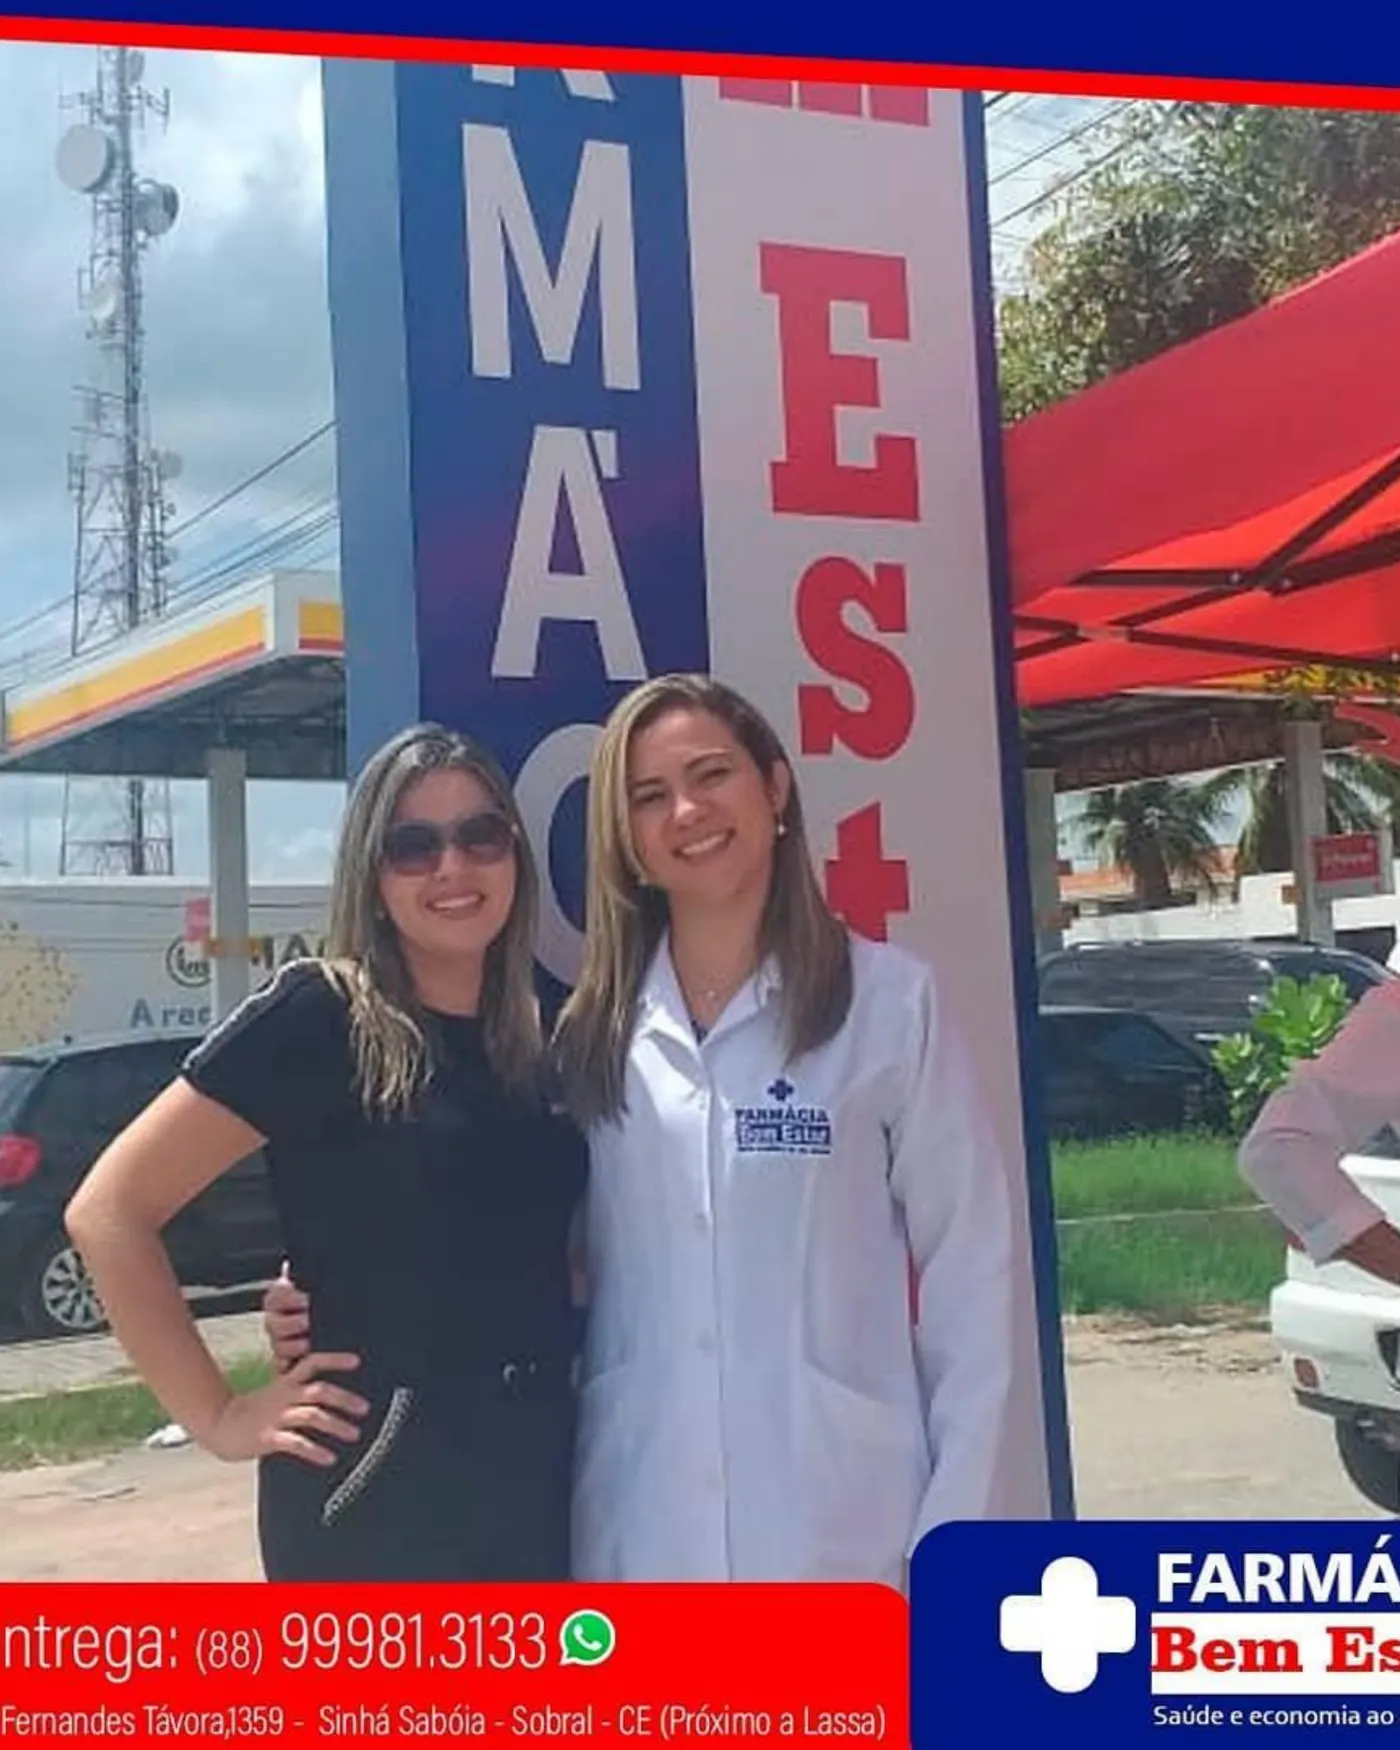
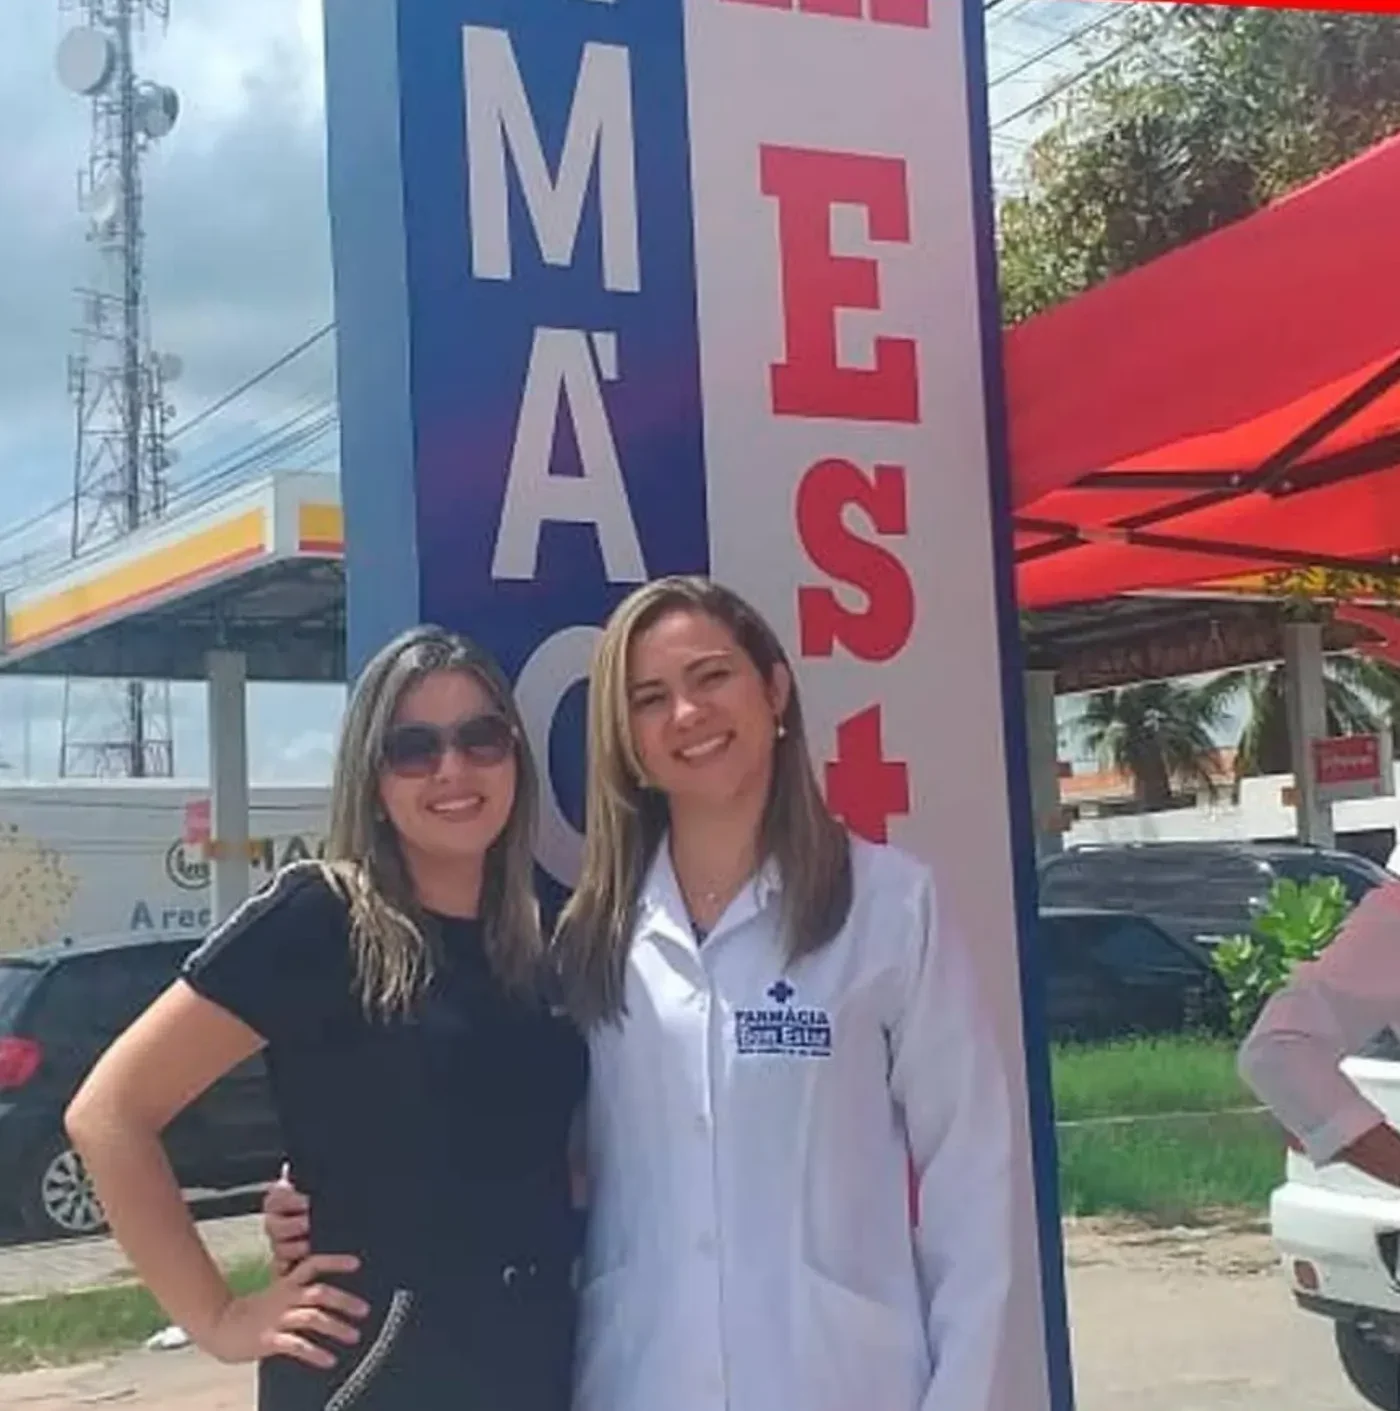
Destacar no topo do site a fachada da loja e a farmaceutica responsavel
- Adiciona as duas fotos novas enviadas pelo cliente: fachada-frente.webp
  (fachada completa, sem o banner com o telefone antigo) e
  kamila-proprietaria.webp (recortada para tirar o botao de play do video).
- Substitui heroImagem (uma foto) por heroImagens (lista), e o topo passa a
  mostrar a fachada como imagem principal com um cartao sobreposto da
  farmaceutica responsavel e proprietaria.
- Remove fachada-hero.webp, o recorte antigo que o cliente pediu para tirar.
- Recorta a faixa de rodape de fachada-farmaceutica.webp na galeria: ela
  exibia o telefone antigo (banido no WhatsApp) com o icone do WhatsApp.

Claude-Session: https://claude.ai/code/session_01RfrC8SveZFc3APvWVisAbM

diff --git a/components/hero/Hero.tsx b/components/hero/Hero.tsx
@@ -1,16 +1,28 @@
 import { Clock, MapPin, MessageCircle } from "lucide-react";
 import { empresa } from "@/content/empresa";
-import { heroImagem } from "@/content/institucional";
+import { heroImagens } from "@/content/institucional";
+
+const [imagemPrincipal, imagemSecundaria] = heroImagens;
 
 export function Hero() {
   return (
     <section id="inicio" className="relative overflow-hidden border-b border-border">
-      <div className="container-page grid gap-10 py-16 md:py-24 lg:grid-cols-2 lg:items-center">
+      {/* Fundo suave para dar profundidade ao topo sem concorrer com as fotos. */}
+      <div
+        aria-hidden="true"
+        className="pointer-events-none absolute -right-24 -top-24 h-72 w-72 rounded-full bg-secondary/5 blur-3xl"
+      />
+      <div
+        aria-hidden="true"
+        className="pointer-events-none absolute -bottom-32 -left-24 h-72 w-72 rounded-full bg-primary/5 blur-3xl"
+      />
+
+      <div className="container-page relative grid gap-12 py-16 md:py-24 lg:grid-cols-2 lg:items-center lg:gap-16">
         <div>
           <p className="mb-4 inline-flex items-center rounded-full bg-secondary/10 px-4 py-1.5 text-sm font-semibold text-secondary">
             Farmácia em Sobral - CE
           </p>
-          <h1 className="text-4xl font-bold leading-tight text-foreground sm:text-5xl">
+          <h1 className="font-heading text-4xl font-bold leading-tight text-foreground sm:text-5xl">
             Saúde e bem-estar com quem cuida de você de perto
           </h1>
           <p className="mt-5 max-w-xl text-lg text-foreground/70">
@@ -36,13 +48,41 @@ export function Hero() {
           </div>
         </div>
 
-        {heroImagem ? (
-          /* eslint-disable-next-line @next/next/no-img-element */
-          <img
-            src={heroImagem.src}
-            alt={heroImagem.alt}
-            className="aspect-[4/3] w-full rounded-xl border border-border object-cover"
-          />
+        {imagemPrincipal ? (
+          /* Composição com as duas fotos reais da farmácia: a fachada como
+             imagem principal e a farmacêutica responsável em destaque
+             sobreposto, no formato de um cartão com legenda.
+             <img> em vez de next/image: o site é exportado como estático
+             (images.unoptimized). */
+          <div className="relative mx-auto w-full max-w-md lg:ml-auto lg:mr-0 lg:max-w-[520px]">
+            {/* eslint-disable-next-line @next/next/no-img-element */}
+            <img
+              src={imagemPrincipal.src}
+              alt={imagemPrincipal.alt}
+              className="aspect-[4/5] w-full rounded-2xl border border-border object-cover object-top shadow-xl"
+            />
+
+            {imagemSecundaria && (
+              <figure className="absolute bottom-5 left-0 w-32 overflow-hidden rounded-2xl bg-background shadow-2xl ring-1 ring-border sm:w-40 lg:-left-10 lg:w-44">
+                {/* eslint-disable-next-line @next/next/no-img-element */}
+                <img
+                  src={imagemSecundaria.src}
+                  alt={imagemSecundaria.alt}
+                  className="aspect-[3/4] w-full object-cover object-[50%_28%]"
+                />
+                {imagemSecundaria.legenda && (
+                  <figcaption className="px-3 py-2.5">
+                    <span className="block text-xs font-semibold text-foreground">
+                      {imagemSecundaria.legenda.titulo}
+                    </span>
+                    <span className="mt-0.5 block text-[11px] leading-snug text-foreground/60">
+                      {imagemSecundaria.legenda.papel}
+                    </span>
+                  </figcaption>
+                )}
+              </figure>
+            )}
+          </div>
         ) : (
           <div className="rounded-xl border border-border bg-card p-8">
             <h2 className="font-heading text-lg font-semibold text-foreground">

diff --git a/content/institucional.ts b/content/institucional.ts
@@ -91,11 +91,26 @@ export const galeria: Array<{ src: string; alt: string }> = [
 ];
 
 /**
- * Foto de destaque do topo da página (fachada da loja, por exemplo).
- * Enquanto for `null`, o topo mostra um cartão com horário e endereço
- * no lugar — nunca uma imagem genérica fingindo ser a loja.
+ * Fotos de destaque do topo da página: a fachada da loja e a
+ * farmacêutica proprietária. Enquanto a lista estiver vazia, o topo
+ * mostra um cartão com horário e endereço no lugar — nunca uma imagem
+ * genérica fingindo ser a loja.
+ *
+ * A primeira foto é a principal (aparece maior); a segunda entra como
+ * destaque secundário sobreposto.
  */
-export const heroImagem: { src: string; alt: string } | null = {
-  src: "/images/fachada-hero.webp",
-  alt: "Fachada da Farmácia Bem Estar",
-};
+export const heroImagens: Array<{
+  src: string;
+  alt: string;
+  legenda?: { titulo: string; papel: string };
+}> = [
+  {
+    src: "/images/fachada-frente.webp",
+    alt: "Fachada da Farmácia Bem Estar, na Av. Sen. Fernandes Távora, em Sobral - CE",
+  },
+  {
+    src: "/images/kamila-proprietaria.webp",
+    alt: "Kamila Soares Balreira, farmacêutica responsável e proprietária da Farmácia Bem Estar",
+    legenda: { titulo: "Kamila Balreira", papel: "Farmacêutica responsável e proprietária" },
+  },
+];

diff --git a/README.md b/README.md
@@ -94,7 +94,7 @@ Aguardando material do cliente (as seções ficam ocultas até lá):
 |---|---|
 | Texto "quem somos", missão e valores | `content/institucional.ts` → `sobre` |
 | Ano de fundação e marcos da história | `content/institucional.ts` → `historia` |
-| Fotos reais da farmácia e da equipe | `content/institucional.ts` → `galeria` / `heroImagem` + `public/images/` |
+| Fotos reais da farmácia e da equipe | `content/institucional.ts` → `galeria` / `heroImagens` + `public/images/` |
 | Arquivo original da logo | `public/logo.svg` (hoje é uma reconstrução aproximada) |
 | E-mail de contato | `content/empresa.ts` → `email` |
 | Domínio definitivo | `content/site.ts` → `siteUrl` |
